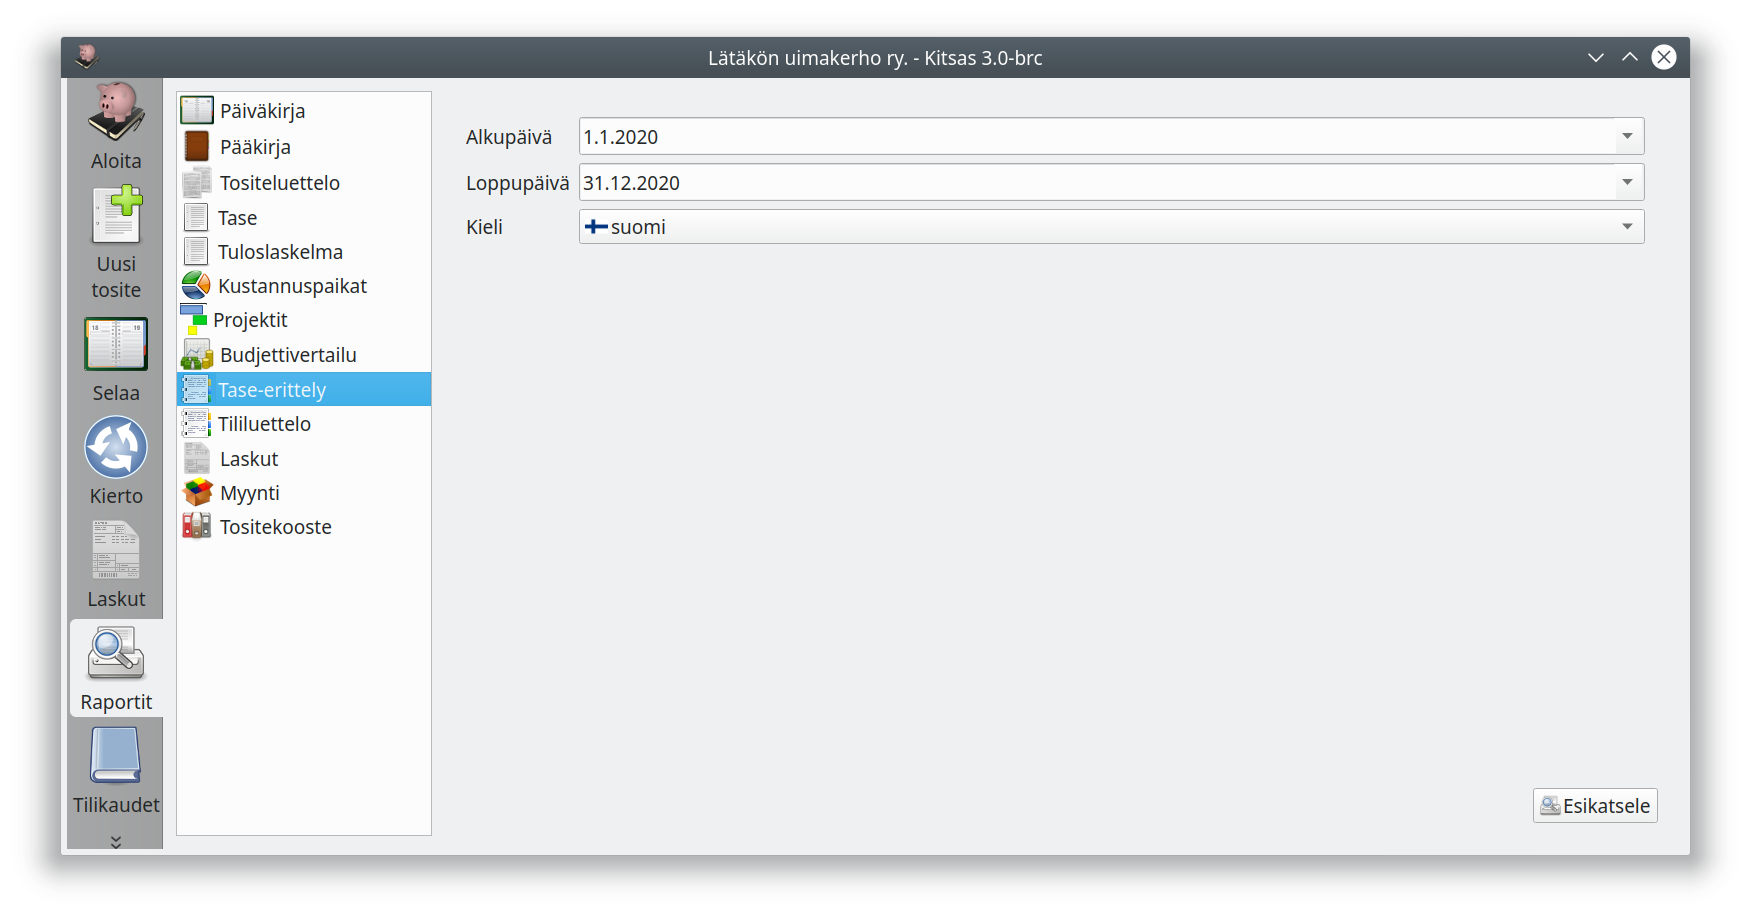
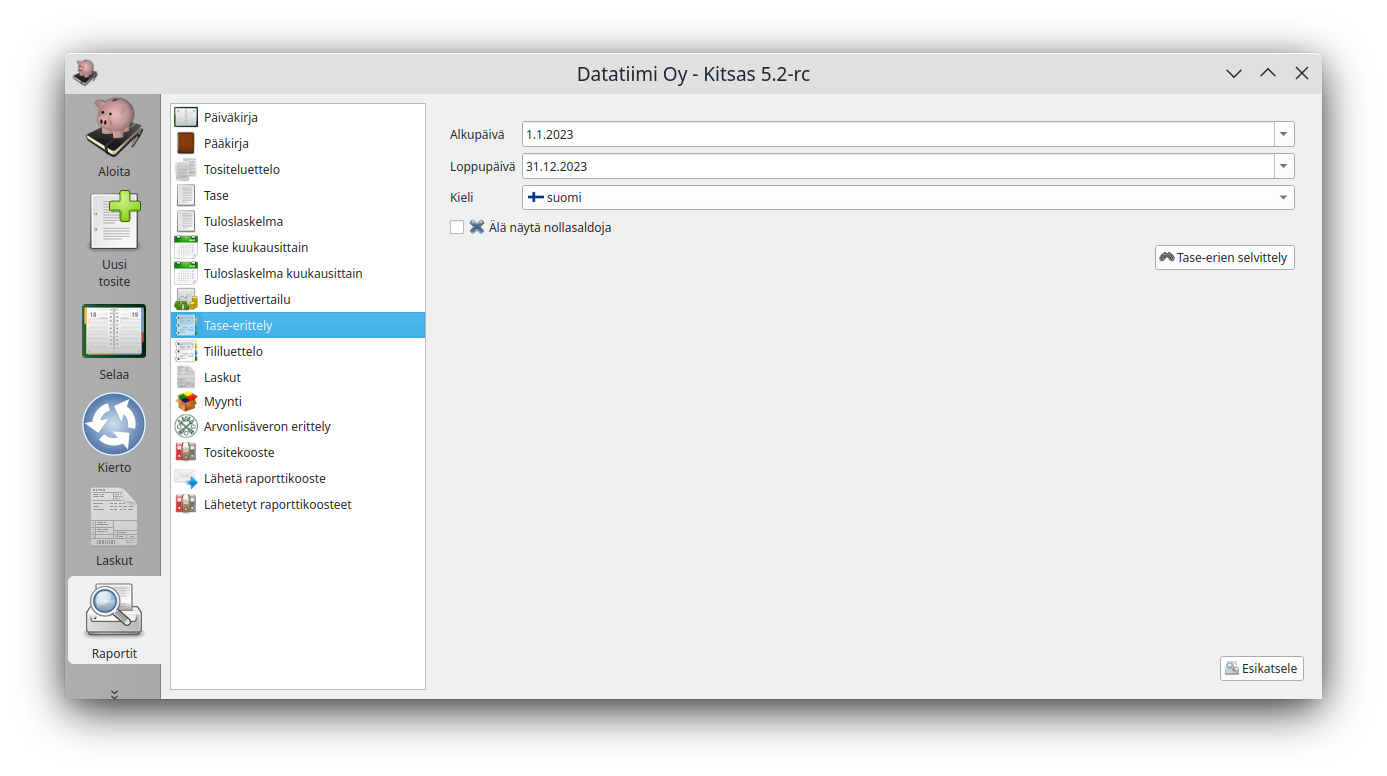
Tase-erittelyn ohje

Changed region(s): [[0.0, 0.0309, 0.9921, 0.9588]]

diff --git a/content/fi/docs/raportit/taseerittely.md b/content/fi/docs/raportit/taseerittely.md
@@ -11,4 +11,18 @@ description: >
 
 ![](/img/fi/raportit/taseerittely.png)
 
-Yllä olevan erittelyn ensimmäisellä tilillä 1062 IT-ohjelmistot on täysi tase-eräkohtainen erittely, keskimmäisellä luetellaan tilikauden aikaiset muutokset ja alimmalla tilin saldon muodostavat summat tilikauden päätöspäivänä.
+Kitsas ylläpitää koko ajan tase-erittelyä kirjaamisen yhteydessä määriteltyjen [tase-erien](../../kirjaus/siirto/erat/) perusteella. [Tilin asetuksissa](../../asetukset/tililuettelo/muokkaaminen/#tase-erittely-ja-tase-erät) määritellään tilikohtaisesti, ylläpidetäänkö tilille tase-erittelyä ja kuinka laajana se tase-erittelylle tulostetaan.
+
+Yllä olevassa esimerkissä Koneet ja kalusto -tilistä esitetään vain saldo, Myyntisaamisistä esitetään laskukohtaiset saldot ja Muista lähipiirilainoista esitetään myös lainoittain eritellyt tapahtumat tilikauden aikana.
+
+{{<alert title="Yksittäisen erittelyn muokkaaminen">}}
+Jos yksittäistä erittyä on tarpeen vielä muokata, on se helpointa viedä tekstinkäsittelyyn esikatseluikkunan **HTML** > **Leikepöydälle** valinnalla, jonka jälkeen erittelyn voi liittää tekstinkäsittelyssä.
+{{</alert>}}
+
+### Tase-erien selvittely
+
+![](/img/fi/raportit/selvittely.png)
+
+Tase-erien selvittelynäkymässä pääsee tileittäin porautumaan kaikkiin tase-eriin. Ikkunan oikeanpuolesimmassa sarakkeesta näkyy, mistä kirjauksista tase-erä koostuu. Vientiä klikkaamalla avautuu viennin tosite muokattavaksi.
+
+Tase-erien selvittelytyökaluun on tulossa ominaisuuksia, jolla tase-eriä pääsee suoraan yhdistämään toisiinsa.
